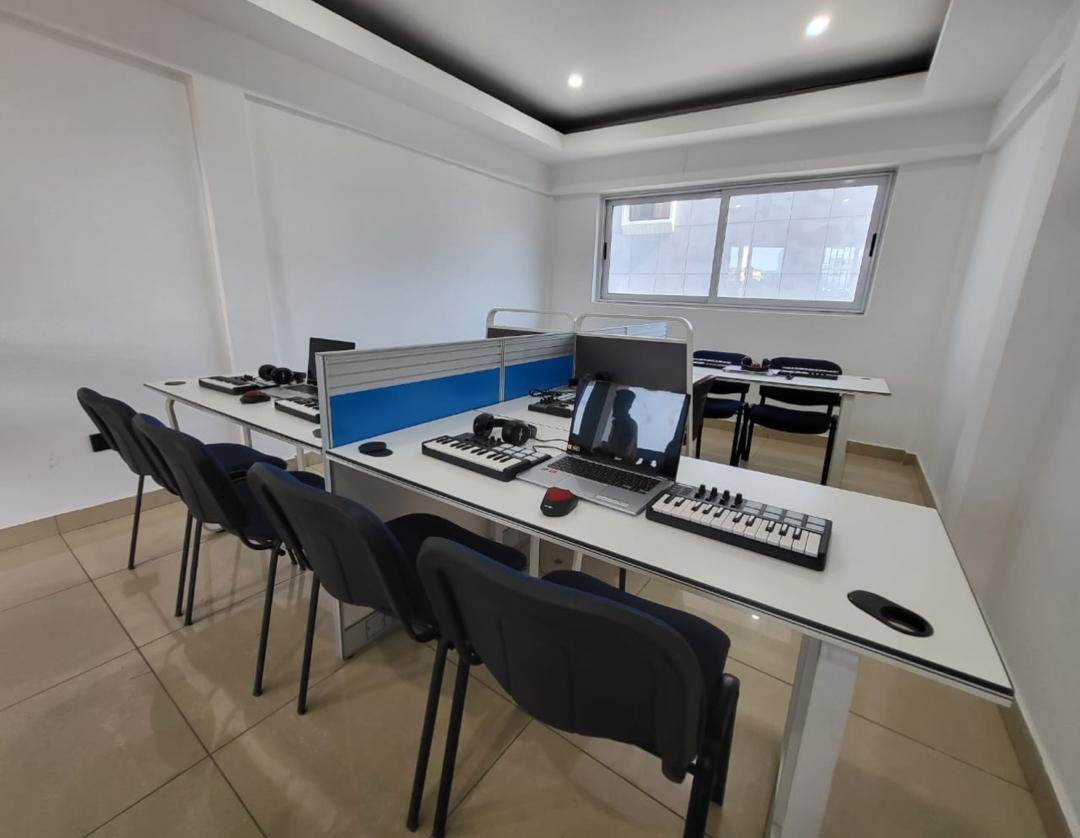
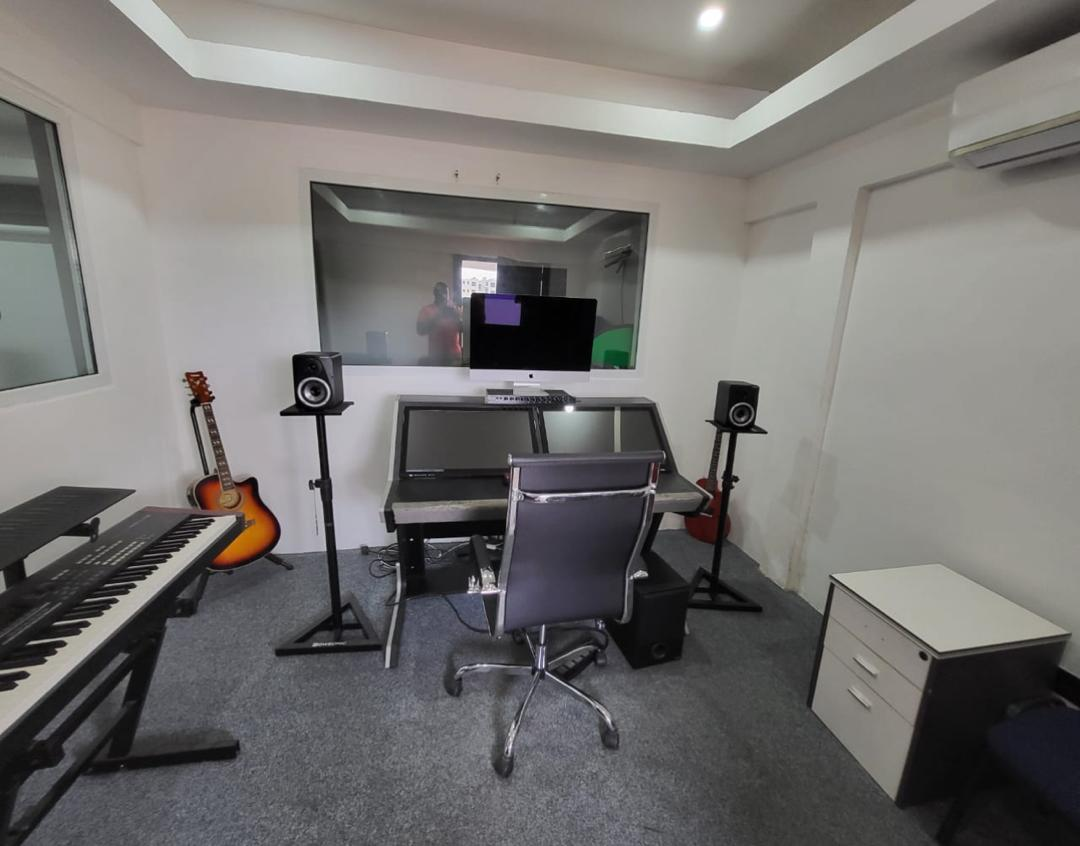
Update program duration and page styling

diff --git a/service.html b/service.html
@@ -57,7 +57,7 @@
                             <h1>Programs Built for Careers</h1>
                         </div>
                     </div>
-                    <p class="mb-4">Each programme blends practical training, studio work, industry mentorship, and live venture experience. All core programmes run for 6 months: 5 months of teaching followed by 1 month of internship or capstone project.</p>
+                    <p class="mb-4">Each programme blends practical training, studio work, industry mentorship, and live venture experience. All core programmes run for 9 months: 8 months of teaching followed by 1 month of internship or capstone project.</p>
                     <p class="mb-4">Assessment is 70% practical. Every student graduates with a professional portfolio, a real client or business track record, and a TAF College Certificate.</p>
                     <a class="btn btn-outline-primary border-2 py-3 px-5" href="admissions.html">Admissions Guide</a>
                 </div>
@@ -65,13 +65,13 @@
                     <div class="row g-3">
                         <div class="col-sm-6">
                             <div class="stat-card">
-                                <h2>6</h2>
+                                <h2>9</h2>
                                 <p>Months total</p>
                             </div>
                         </div>
                         <div class="col-sm-6">
                             <div class="stat-card">
-                                <h2>5+1</h2>
+                                <h2>8+1</h2>
                                 <p>Teaching + capstone</p>
                             </div>
                         </div>
@@ -114,9 +114,9 @@
                         </div>
                         <div class="col-lg-7 col-md-12 p-4 p-lg-5 d-flex flex-column justify-content-center">
                             <h3 class="text-primary text-uppercase mb-3">Fashion Design</h3>
-                            <p class="fs-5 text-white-50 mb-4 text-justify">Sketching, colour theory, fabric knowledge, garment construction, pattern making, and a 3-5 piece collection showcase through the TAF Fashion Label.</p>
-                            <ul class="list-unstyled mb-4 text-white-50">
-                                <li class="mb-2"><i class="fa fa-clock text-primary me-2"></i><strong>Duration:</strong> 6 months | 3 days/week | 4 hours/day</li>
+                            <p class="fs-5 text-white mb-4 text-justify">Sketching, colour theory, fabric knowledge, garment construction, pattern making, and a 3-5 piece collection showcase through the TAF Fashion Label.</p>
+                            <ul class="list-unstyled mb-4 text-white">
+                                <li class="mb-2"><i class="fa fa-clock text-primary me-2"></i><strong>Duration:</strong> 9 months | 3 days/week | 4 hours/day</li>
                                 <li class="mb-2"><i class="fa fa-layer-group text-primary me-2"></i><strong>Core Modules:</strong> Garment construction, branding, sustainability</li>
                                 <li class="mb-0"><i class="fa fa-briefcase text-primary me-2"></i><strong>Career Pathways:</strong> Fashion designer, brand owner, garment entrepreneur</li>
                             </ul>
@@ -132,9 +132,9 @@
                     <div class="row g-0 align-items-stretch bg-dark rounded overflow-hidden border border-secondary" style="border-radius: 24px !important;">
                         <div class="col-lg-7 col-md-12 p-4 p-lg-5 d-flex flex-column justify-content-center order-2 order-lg-1">
                             <h3 class="text-primary text-uppercase mb-3">Applied AI</h3>
-                            <p class="fs-5 text-white-50 mb-4 text-justify">AI literacy, prompt engineering, generative content creation, productivity workflows, vibe coding, and a real-world capstone project.</p>
-                            <ul class="list-unstyled mb-4 text-white-50">
-                                <li class="mb-2"><i class="fa fa-clock text-primary me-2"></i><strong>Duration:</strong> 6 months | 3 days/week | 4 hours/day</li>
+                            <p class="fs-5 text-white mb-4 text-justify">AI literacy, prompt engineering, generative content creation, productivity workflows, vibe coding, and a real-world capstone project.</p>
+                            <ul class="list-unstyled mb-4 text-white">
+                                <li class="mb-2"><i class="fa fa-clock text-primary me-2"></i><strong>Duration:</strong> 9 months | 3 days/week | 4 hours/day</li>
                                 <li class="mb-2"><i class="fa fa-layer-group text-primary me-2"></i><strong>Core Modules:</strong> ChatGPT/Claude/Gemini, automation, Canva AI</li>
                                 <li class="mb-0"><i class="fa fa-briefcase text-primary me-2"></i><strong>Career Pathways:</strong> AI consultant, productivity specialist, tech entrepreneur</li>
                             </ul>
@@ -160,9 +160,9 @@
                         </div>
                         <div class="col-lg-7 col-md-12 p-4 p-lg-5 d-flex flex-column justify-content-center">
                             <h3 class="text-primary text-uppercase mb-3">Digital Marketing</h3>
-                            <p class="fs-5 text-white-50 mb-4 text-justify">Content creation, social media strategy, paid advertising, SEO, email marketing, client acquisition, and real client campaigns.</p>
-                            <ul class="list-unstyled mb-4 text-white-50">
-                                <li class="mb-2"><i class="fa fa-clock text-primary me-2"></i><strong>Duration:</strong> 6 months | 3 days/week | 4 hours/day</li>
+                            <p class="fs-5 text-white mb-4 text-justify">Content creation, social media strategy, paid advertising, SEO, email marketing, client acquisition, and real client campaigns.</p>
+                            <ul class="list-unstyled mb-4 text-white">
+                                <li class="mb-2"><i class="fa fa-clock text-primary me-2"></i><strong>Duration:</strong> 9 months | 3 days/week | 4 hours/day</li>
                                 <li class="mb-2"><i class="fa fa-layer-group text-primary me-2"></i><strong>Core Modules:</strong> Meta Ads, Google Ads, SEO, analytics</li>
                                 <li class="mb-0"><i class="fa fa-briefcase text-primary me-2"></i><strong>Career Pathways:</strong> Marketing consultant, agency founder, freelancer</li>
                             </ul>
@@ -178,9 +178,9 @@
                     <div class="row g-0 align-items-stretch bg-dark rounded overflow-hidden border border-secondary" style="border-radius: 24px !important;">
                         <div class="col-lg-7 col-md-12 p-4 p-lg-5 d-flex flex-column justify-content-center order-2 order-lg-1">
                             <h3 class="text-primary text-uppercase mb-3">Photo & Video Production</h3>
-                            <p class="fs-5 text-white-50 mb-4 text-justify">Camera handling, portrait and event photography, lighting, audio, commercial video, social media content, and professional editing.</p>
-                            <ul class="list-unstyled mb-4 text-white-50">
-                                <li class="mb-2"><i class="fa fa-clock text-primary me-2"></i><strong>Duration:</strong> 6 months | 3 days/week | 4 hours/day</li>
+                            <p class="fs-5 text-white mb-4 text-justify">Camera handling, portrait and event photography, lighting, audio, commercial video, social media content, and professional editing.</p>
+                            <ul class="list-unstyled mb-4 text-white">
+                                <li class="mb-2"><i class="fa fa-clock text-primary me-2"></i><strong>Duration:</strong> 9 months | 3 days/week | 4 hours/day</li>
                                 <li class="mb-2"><i class="fa fa-layer-group text-primary me-2"></i><strong>Core Modules:</strong> Premiere, Lightroom, DaVinci Resolve</li>
                                 <li class="mb-0"><i class="fa fa-briefcase text-primary me-2"></i><strong>Career Pathways:</strong> Photographer, videographer, media agency founder</li>
                             </ul>
@@ -201,7 +201,7 @@
     <!-- Program Catalogue End -->
 
     <!-- Requirements Start -->
-    <div class="container-fluid py-5 bg-white text-dark">
+    <div class="container-fluid py-5 bg-dark text-white">
         <div class="container py-5">
             <div class="row g-5 align-items-center">
                 <div class="col-lg-6 wow fadeInUp" data-wow-delay="0.1s">
@@ -214,7 +214,7 @@
                             <h1>Entry Checklist</h1>
                         </div>
                     </div>
-                    <p class="mb-4 text-dark">We consider academic results, motivation, and creativity. Some programs require a portfolio or audition.</p>
+                    <p class="mb-4 text-white">We consider academic results, motivation, and creativity. Some programs require a portfolio or audition.</p>
                     <ul class="list-unstyled">
                         <li class="mb-2"><i class="fa fa-check text-primary me-2"></i>WASSCE/SSSCE results or equivalent</li>
                         <li class="mb-2"><i class="fa fa-check text-primary me-2"></i>Valid ID and application form</li>

diff --git a/index.html b/index.html
@@ -104,7 +104,7 @@
                 <div class="col-6 col-md">
                     <div class="impact-stat">
                         <h2>70%</h2>
-                        <p>Practical Learning</p>
+                        <p>Practical<br>Learning</p>
                     </div>
                 </div>
                 <div class="col-6 col-md">
@@ -189,7 +189,7 @@
                         <div class="service-text px-5 px-md-0 py-md-5 wow fadeInRight" data-wow-delay="0.5s">
                             <h3 class="text-uppercase">Fashion Design</h3>
                             <p class="mb-4">From foundational sketching, colour theory, and fabric knowledge through to advanced garment construction, pattern making, and a final 3-5 piece collection showcase. Students operate the TAF Fashion Label, producing corporate wear, school uniforms, and ready-to-wear collections for paying clients.</p>
-                            <p class="mb-4"><strong>Skills:</strong> Garment construction, pattern making, illustration, collections, branding, sustainability, client management.<br><strong>Duration:</strong> 6 months | 3 days/week | 4 hours/day.<br><strong>Career outcomes:</strong> Fashion designer, brand owner, garment entrepreneur, export business.</p>
+                            <p class="mb-4"><strong>Skills:</strong> Garment construction, pattern making, illustration, collections, branding, sustainability, client management.<br><strong>Duration:</strong> 9 months | 3 days/week | 4 hours/day.<br><strong>Career outcomes:</strong> Fashion designer, brand owner, garment entrepreneur, export business.</p>
                             <a class="btn btn-outline-primary border-2 px-4" href="service.html">Read More <i
                                     class="fa fa-arrow-right ms-1"></i></a>
                         </div>
@@ -208,7 +208,7 @@
                         <div class="service-text px-5 px-md-0 py-md-5 text-md-end wow fadeInLeft" data-wow-delay="0.5s">
                             <h3 class="text-uppercase">Digital Marketing</h3>
                             <p class="mb-4">Content creation, social media strategy, paid advertising, SEO, email marketing, and client acquisition. Students run real campaigns for real clients through the TAF Digital & AI Agency, with Month 5 focused on freelancing, personal branding, and securing income before graduation.</p>
-                            <p class="mb-4"><strong>Skills:</strong> Content strategy, Meta Ads, Google Ads, SEO, email marketing, analytics, freelancing.<br><strong>Duration:</strong> 6 months | 3 days/week | 4 hours/day.<br><strong>Career outcomes:</strong> Marketing consultant, agency founder, freelancer, in-house digital marketer.</p>
+                            <p class="mb-4"><strong>Skills:</strong> Content strategy, Meta Ads, Google Ads, SEO, email marketing, analytics, freelancing.<br><strong>Duration:</strong> 9 months | 3 days/week | 4 hours/day.<br><strong>Career outcomes:</strong> Marketing consultant, agency founder, freelancer, in-house digital marketer.</p>
                             <a class="btn btn-outline-primary border-2 px-4" href="service.html">Read More <i
                                     class="fa fa-arrow-right ms-1"></i></a>
                         </div>
@@ -227,7 +227,7 @@
                         <div class="service-text px-5 px-md-0 py-md-5 wow fadeInRight" data-wow-delay="0.5s">
                             <h3 class="text-uppercase">Applied AI</h3>
                             <p class="mb-4">AI literacy, prompt engineering, generative content creation, AI for productivity, and vibe coding. Students learn to use AI tools confidently, ethically, and commercially, then complete a capstone applying the full AI workflow to a real business or community problem.</p>
-                            <p class="mb-4"><strong>Skills:</strong> Prompt engineering, ChatGPT/Claude/Gemini, automation, Canva AI, vibe coding, AI workflow design.<br><strong>Duration:</strong> 6 months | 3 days/week | 4 hours/day.<br><strong>Career outcomes:</strong> AI consultant, productivity specialist, tech entrepreneur, freelancer.</p>
+                            <p class="mb-4"><strong>Skills:</strong> Prompt engineering, ChatGPT/Claude/Gemini, automation, Canva AI, vibe coding, AI workflow design.<br><strong>Duration:</strong> 9 months | 3 days/week | 4 hours/day.<br><strong>Career outcomes:</strong> AI consultant, productivity specialist, tech entrepreneur, freelancer.</p>
                             <a class="btn btn-outline-primary border-2 px-4" href="service.html">Read More <i
                                     class="fa fa-arrow-right ms-1"></i></a>
                         </div>
@@ -246,7 +246,7 @@
                         <div class="service-text px-5 px-md-0 py-md-5 text-md-end wow fadeInLeft" data-wow-delay="0.5s">
                             <h3 class="text-uppercase">Photo and Video Production</h3>
                             <p class="mb-4">Camera handling, portrait and event photography, lighting and audio production, commercial video, social media content, and professional editing. Students operate the TAF Media & Production Agency, serving paying clients across Accra.</p>
-                            <p class="mb-4"><strong>Skills:</strong> Photography, videography, Adobe Premiere, Lightroom, DaVinci Resolve, lighting, audio, live production.<br><strong>Duration:</strong> 6 months | 3 days/week | 4 hours/day.<br><strong>Career outcomes:</strong> Photographer, videographer, content creator, media agency founder.</p>
+                            <p class="mb-4"><strong>Skills:</strong> Photography, videography, Adobe Premiere, Lightroom, DaVinci Resolve, lighting, audio, live production.<br><strong>Duration:</strong> 9 months | 3 days/week | 4 hours/day.<br><strong>Career outcomes:</strong> Photographer, videographer, content creator, media agency founder.</p>
                             <a class="btn btn-outline-primary border-2 px-4" href="service.html">Read More <i
                                     class="fa fa-arrow-right ms-1"></i></a>
                         </div>
@@ -606,7 +606,7 @@
                             <h3 id="modalProfileName" class="text-uppercase text-white mb-1"></h3>
                             <p id="modalProfileRole" class="text-primary text-uppercase font-weight-bold mb-3" style="letter-spacing: 1px; font-size: 14px;"></p>
                             <hr class="border-secondary my-3">
-                            <p id="modalProfileBio" class="text-justify text-white-50 lh-base" style="font-size: 15px; text-align: justify;"></p>
+                            <p id="modalProfileBio" class="text-justify text-white lh-base" style="font-size: 15px; text-align: justify;"></p>
                         </div>
                     </div>
                 </div>

diff --git a/about.html b/about.html
@@ -50,19 +50,22 @@
     <!-- Who We Are Start -->
     <div class="container-fluid py-5 bg-white">
         <div class="container py-5">
-            <div class="row g-5 align-items-center">
-                <div class="col-lg-6 wow fadeInUp" data-wow-delay="0.1s">
-                    <div class="title mb-4">
-                        <div class="title-left">
-                            <h5>Who We Are</h5>
-                            <h1>Practical Skills for Real Economic Outcomes</h1>
+            <div class="row g-5 align-items-stretch">
+                <div class="col-lg-6 wow fadeInUp d-flex" data-wow-delay="0.1s">
+                    <div class="d-flex flex-column justify-content-center h-100">
+                        <div class="title mb-4">
+                            <div class="title-left">
+                                <h5>Who We Are</h5>
+                                <h1>Practical Skills for Real Economic Outcomes</h1>
+                            </div>
                         </div>
+                        <p class="mb-4 text-justify">TAF College is a practical skills, entrepreneurship, and innovation institution based in Dzorwulu, Accra. We serve young professionals, aspiring entrepreneurs, recent school leavers, and people who have been excluded from traditional university pathways but want a real, market-ready qualification.</p>
+                        <p class="mb-0 text-justify">Every programme is built around one question: what does this student need to know, make, or do to earn a living and build a business? That question shapes the curriculum, assessments, mentorship, and live commercial ventures students operate while they study.</p>
                     </div>
-                    <p class="mb-4 text-justify">TAF College is a practical skills, entrepreneurship, and innovation institution based in Dzorwulu, Accra. We serve young professionals, aspiring entrepreneurs, recent school leavers, and people who have been excluded from traditional university pathways but want a real, market-ready qualification.</p>
-                    <p class="mb-0 text-justify">Every programme is built around one question: what does this student need to know, make, or do to earn a living and build a business? That question shapes the curriculum, assessments, mentorship, and live commercial ventures students operate while they study.</p>
                 </div>
-                <div class="col-lg-6 wow fadeInUp" data-wow-delay="0.3s">
-                    <div class="info-card h-100 p-4">
+                <div class="col-lg-6 wow fadeInUp d-flex" data-wow-delay="0.3s">
+                    <div class="info-card h-100 p-4 d-flex flex-column">
+                        <img class="img-fluid w-100 mb-4 about-production-img" src="img/about-students.jpg" alt="Students in a practical learning environment">
                         <h4 class="text-primary mb-3">A Production Environment, Not Just a Classroom</h4>
                         <p class="mb-0 text-justify">TAF College is not a theory institution. It is a production environment. Students are expected to produce, create, sell, and build from their first week. By graduation, they have a portfolio of real work, a network of real contacts, and the practical confidence of someone who has already done the work.</p>
                     </div>
@@ -318,7 +321,7 @@
                                 </div>
                                 <div>
                                     <h5 class="mb-1">Award Winning</h5>
-                                    <span class="text-muted">Leader in Education</span>
+                                    <span class="text-dark">Leader in Education</span>
                                 </div>
                             </div>
                         </div>
@@ -329,7 +332,7 @@
                                 </div>
                                 <div>
                                     <h5 class="mb-1">Community First</h5>
-                                    <span class="text-muted">Empowering Youth</span>
+                                    <span class="text-dark">Empowering Youth</span>
                                 </div>
                             </div>
                         </div>

diff --git a/admissions.html b/admissions.html
@@ -66,7 +66,7 @@
                     <div class="d-flex flex-wrap gap-3">
                         <div class="info-chip"><i class="fa fa-users me-2 text-primary"></i>60 total places</div>
                         <div class="info-chip"><i class="fa fa-award me-2 text-primary"></i>20 full scholarships</div>
-                        <div class="info-chip"><i class="fa fa-clock me-2 text-primary"></i>Duration: 6 months</div>
+                        <div class="info-chip"><i class="fa fa-clock me-2 text-primary"></i>Duration: 9 months</div>
                         <div class="info-chip"><i class="fa fa-calendar-check me-2 text-primary"></i>Lectures begin: 28 September 2026</div>
                     </div>
                 </div>

diff --git a/css/style.css b/css/style.css
@@ -1,5 +1,7 @@
 :root {
     --bs-primary: #E5C45C;
+    --bs-light: #ffffff;
+    --bs-dark: #000000;
 }
 
 .text-primary {
@@ -584,6 +586,13 @@
     border-radius: 20px;
 }
 
+.about-production-img {
+    aspect-ratio: 16 / 9;
+    object-fit: cover;
+    object-position: center;
+    border-radius: 12px;
+}
+
 .impact-stat {
     height: 100%;
     padding: 24px 18px;
@@ -812,7 +821,7 @@
 .news-date {
     display: block;
     margin-top: 16px;
-    color: rgba(255, 255, 255, .7);
+    color: var(--bs-white);
     font-size: 13px;
 }
 
@@ -950,7 +959,7 @@
 
 .form-note {
     margin: 10px 0 20px;
-    color: rgba(255, 255, 255, .8);
+    color: var(--bs-white);
 }
 
 .application-sidebar {

diff --git a/course-applied-ai.html b/course-applied-ai.html
@@ -73,7 +73,7 @@
                             <i class="fa fa-check fa-2x text-primary me-3"></i>
                             <div>
                                 <h6 class="mb-1">Duration</h6>
-                                <small>6 months | 3 days/week | 4 hours/day.</small>
+                                <small>9 months | 3 days/week | 4 hours/day.</small>
                             </div>
                         </div>
                         <div class="d-flex align-items-center mb-4 pb-2">

diff --git a/course-design-build-manage.html b/course-design-build-manage.html
@@ -73,7 +73,7 @@
                             <i class="fa fa-check fa-2x text-primary me-3"></i>
                             <div>
                                 <h6 class="mb-1">Duration</h6>
-                                <small>6 months | 3 days/week | 4 hours/day.</small>
+                                <small>9 months | 3 days/week | 4 hours/day.</small>
                             </div>
                         </div>
                         <div class="d-flex align-items-center mb-4 pb-2">

diff --git a/course-digital-marketing.html b/course-digital-marketing.html
@@ -73,7 +73,7 @@
                             <i class="fa fa-check fa-2x text-primary me-3"></i>
                             <div>
                                 <h6 class="mb-1">Duration</h6>
-                                <small>6 months | 3 days/week | 4 hours/day.</small>
+                                <small>9 months | 3 days/week | 4 hours/day.</small>
                             </div>
                         </div>
                         <div class="d-flex align-items-center mb-4 pb-2">

diff --git a/course-fashion-design.html b/course-fashion-design.html
@@ -73,7 +73,7 @@
                             <i class="fa fa-check fa-2x text-primary me-3"></i>
                             <div>
                                 <h6 class="mb-1">Duration</h6>
-                                <small>6 months | 3 days/week | 4 hours/day.</small>
+                                <small>9 months | 3 days/week | 4 hours/day.</small>
                             </div>
                         </div>
                         <div class="d-flex align-items-center mb-4 pb-2">
